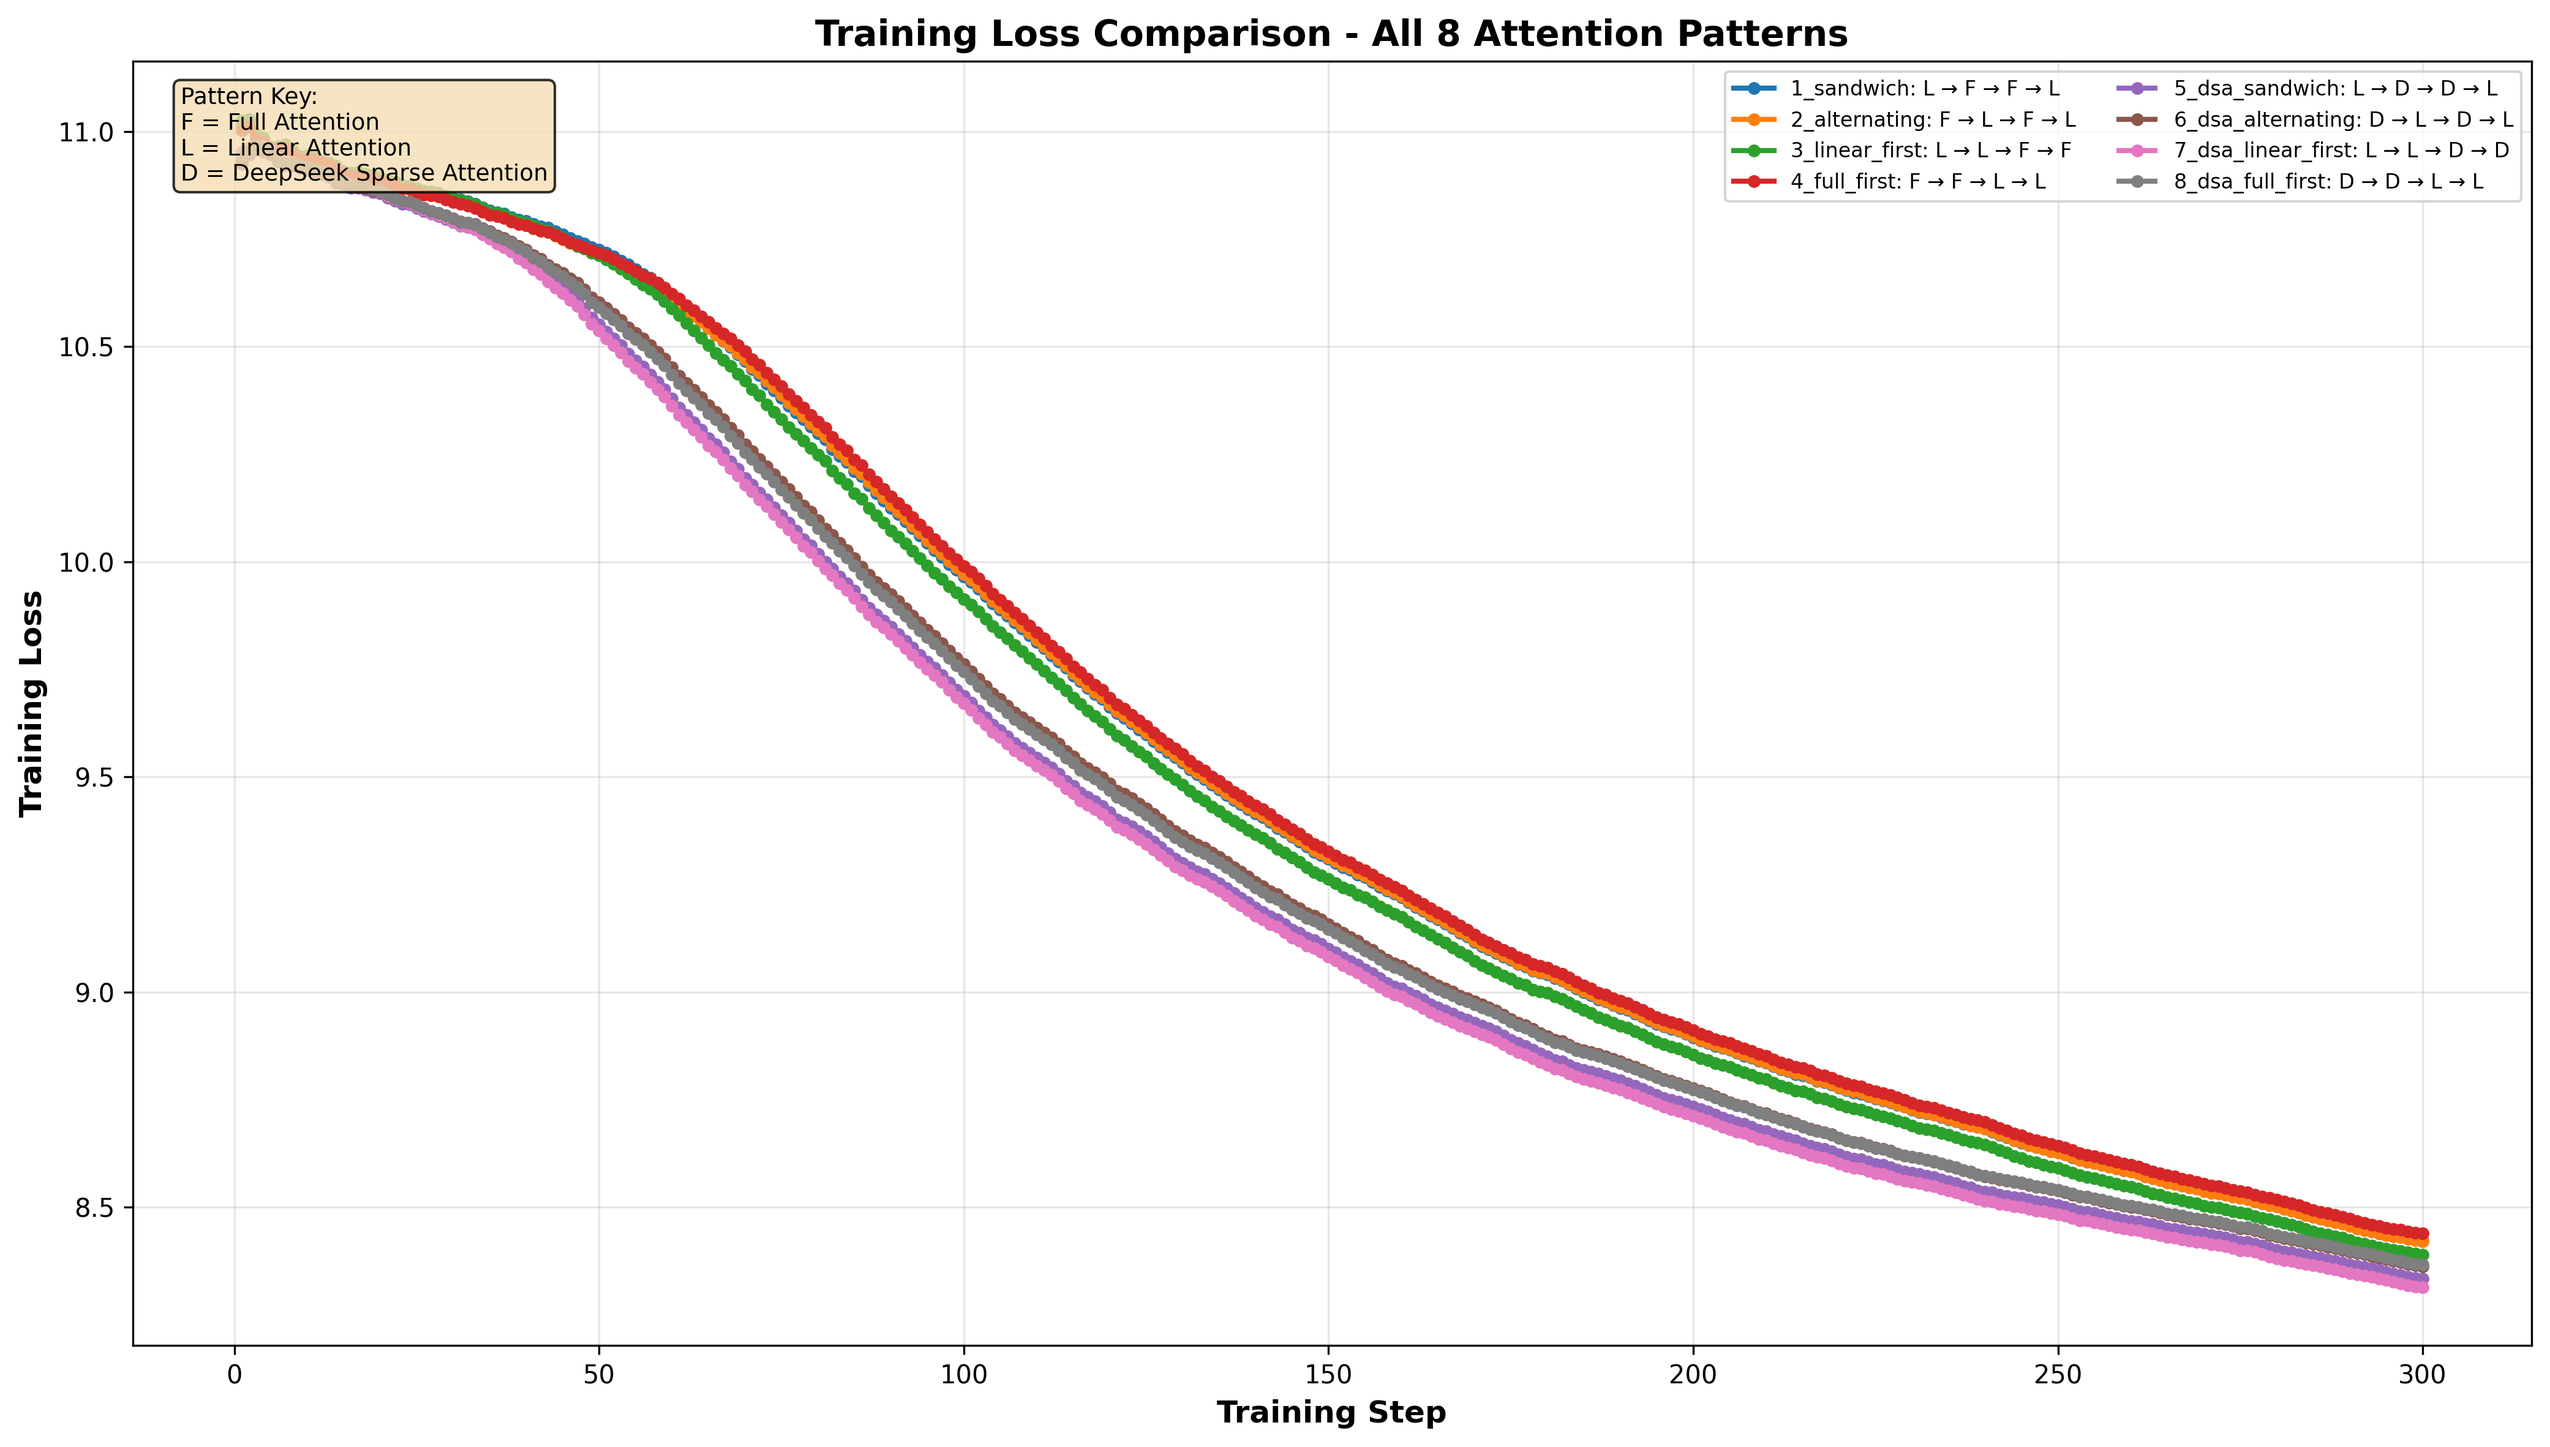
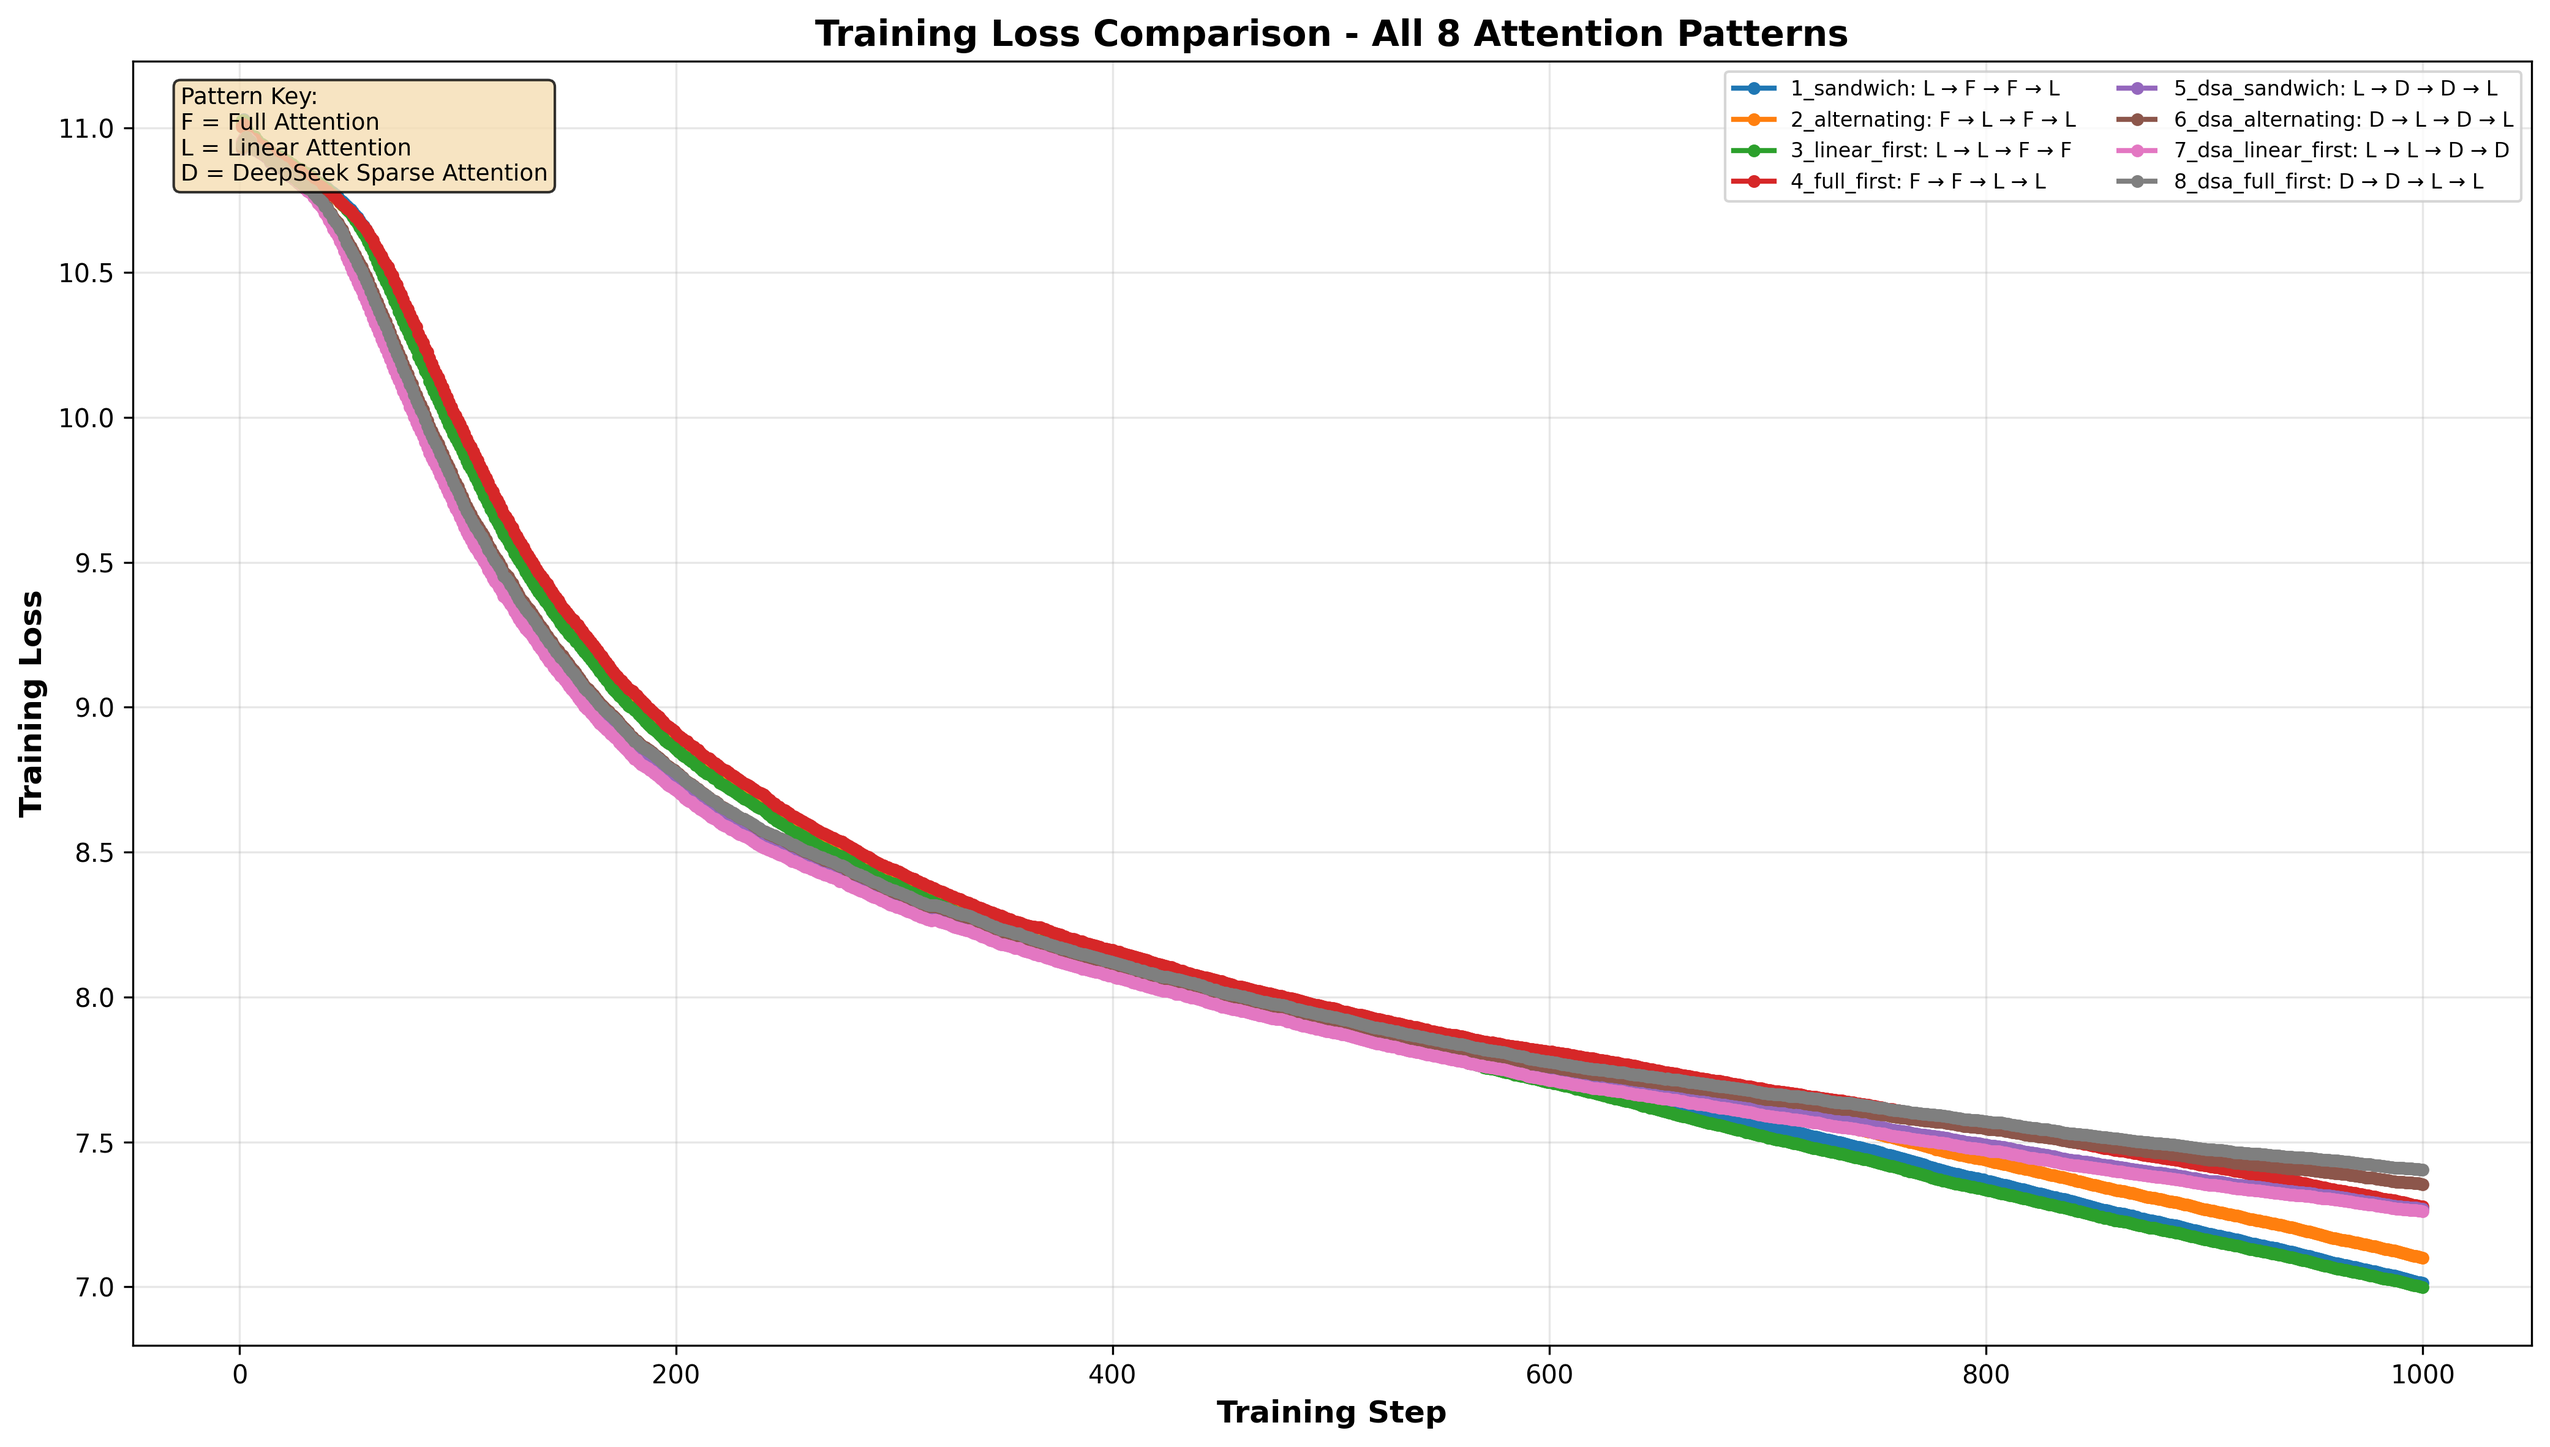
updated readme

diff --git a/experiments/exp1_dsa_gdn_hybrid/run_experiment.py b/experiments/exp1_dsa_gdn_hybrid/run_experiment.py
@@ -19,7 +19,7 @@ matplotlib.use('Agg')  # Use non-interactive backend
 root_dir = os.path.dirname(os.path.dirname(os.path.dirname(os.path.abspath(__file__))))
 sys.path.insert(0, root_dir)
 
-from experiments.exp6_qwen3_dsa_hybrid.models import EnhancedQwen3NextForCausalLM
+from experiments.exp1_dsa_gdn_hybrid.models import EnhancedQwen3NextForCausalLM
 from models.qwen3_next.configuration_qwen3_next import Qwen3NextConfig
 from models.qwen3_next.modular_qwen3_next import Qwen3NextForCausalLM
 from data.loader import load_and_cache_data
@@ -243,8 +243,8 @@ def test_pattern(pattern_name, layer_types, use_dsa=False):
     # Optimizer
     optimizer = torch.optim.AdamW(model.parameters(), lr=3e-4, betas=(0.9, 0.95), weight_decay=0.1)
     
-    # Train for 300 steps
-    max_steps = 300
+    # Train for 1000 steps
+    max_steps = 1000
     start_time = time.time()
     total_steps = 0
     
@@ -292,7 +292,7 @@ def main():
     print("\nConfiguration:")
     print("  • 4 layers, 128 hidden dim, 14M parameters")
     print("  • 4 experts, top-2 routing, MoE every 2 layers")
-    print("  • 300 training steps")
+    print("  • 1000 training steps")
     print()
     
     results = {}

diff --git a/experiments/exp1_dsa_gdn_hybrid/models.py b/experiments/exp1_dsa_gdn_hybrid/models.py
@@ -31,7 +31,7 @@ from models.qwen3_next.modular_qwen3_next import (
 from models.qwen3_next.configuration_qwen3_next import Qwen3NextConfig
 
 # Import DeepSeek Sparse Attention
-from experiments.exp1_attention_mechanisms.exp1_sparse_vs_classic_attention.sparse_attention import (
+from experiments.exp2_attention_mechanisms.exp1_sparse_vs_classic_attention.sparse_attention import (
     DeepSeekSparseAttention,
     LightningIndexer,
 )

diff --git a/experiments/exp1_dsa_gdn_hybrid/README.md b/experiments/exp1_dsa_gdn_hybrid/README.md
@@ -1,12 +1,24 @@
-# Experiment 6: Qwen3-Next Attention Variants
+# DeepSeek Sparse Attention (DSA) + Gated DeltaNet (GDN) Hybrid Attention Variants
 
 ## Research Questions
 
 1. Can replacing full attention with DeepSeek Sparse Attention (DSA) improve the efficiency and performance of a hybrid attention architecture that combines full attention and Gated DeltaNet (GDN)?
 
-- Yes.
+- Trains faster in the beginning, but full attention seems to surpass it with more training. More research needed.
 
 2. Which combination of attention mechanisms across layers produces the best efficiency-performance tradeoff: (1) Full Attention + GDN, (2) DSA + GDN, (3) DSA only, or (4) Full Attention only?
+
+- Currently L → F → F → L (Gated Deltanet → Full Attention → Full Attention → Gated Deltanet). More research needed.
+
+#### All 8 Patterns Comparison
+![Loss Comparison - All Patterns](results/loss_comparison.png)
+
+*Training loss curves for all 8 attention pattern variants. Solid lines represent Original patterns (Full + Linear Attention), dashed lines represent DSA patterns (DeepSeek Sparse + Linear Attention).*
+
+#### Original vs DSA Average
+![Loss Comparison - Category Averages](results/loss_comparison_average.png)
+
+*Average training loss curves comparing Original architectures vs DSA architectures.*
 
 ## Experiment Design
 
@@ -30,16 +42,95 @@ Compare 8 attention layer patterns across a 4-layer LLM architecture:
 
 ```bash
 pip install -r requirements.txt
-
-# Run comprehensive experiment (trains all 8 patterns, ~4 minutes)
-python experiments/exp6_qwen3_dsa_hybrid/run_experiment.py
+# Run comprehensive experiment (trains all 8 patterns for 1000 steps each)
+python experiments/exp1_dsa_gdn_hybrid/run_experiment.py
 ```
+
+## Results
+
+**Training Configuration:**
+- 4 layers, 128 hidden dimension, ~14M parameters
+- 4 experts, top-2 routing, MoE every 2 layers
+- 1000 training steps per pattern
+
+### Performance Summary
+
+| Rank | Pattern | Type | Val Loss | Val Acc | Val PPL | Time |
+|------|---------|------|----------|---------|---------|------|
+| 🏆 1 | Sandwich | Original | 5.4012 | 36.25% | 221.67 | 75.6s |
+| 🥈 2 | Linear First | Original | 5.4712 | 35.84% | 237.74 | 85.4s |
+| 🥉 3 | Alternating | Original | 5.5215 | 32.41% | 250.02 | 78.7s |
+| 4 | Full First | Original | 5.9077 | 27.22% | 367.86 | 84.6s |
+| 5 | DSA Sandwich | DSA | 6.3442 | 22.83% | 569.18 | 84.7s |
+| 6 | DSA Linear First | DSA | 6.3947 | 21.60% | 598.67 | 84.0s |
+| 7 | DSA Alternating | DSA | 6.5257 | 20.08% | 682.44 | 83.3s |
+| 8 | DSA Full First | DSA | 6.7721 | 16.65% | 873.12 | 83.3s |
+
+### Category Comparison
+
+| Category | Avg Val Loss | Avg Val Acc | Avg Val PPL | Avg Time |
+|----------|--------------|-------------|-------------|----------|
+| **Original** (Full + Linear Attention) | 5.5754 | 32.93% | 269.32 | 81.1s |
+| **DSA** (DeepSeek Sparse + Linear) | 6.5092 | 20.29% | 680.85 | 83.8s |
+| **Difference** | +0.9338 | -12.64% | +411.53 | +2.8s |
+
+### Training Loss Curves
+
+#### All 8 Patterns Comparison
+![Loss Comparison - All Patterns](results/loss_comparison.png)
+
+*Training loss curves for all 8 attention pattern variants. Solid lines represent Original patterns (Full + Linear Attention), dashed lines represent DSA patterns (DeepSeek Sparse + Linear Attention).*
+
+#### Original vs DSA Average
+![Loss Comparison - Category Averages](results/loss_comparison_average.png)
+
+*Average training loss curves comparing Original architectures vs DSA architectures.*
+
+## Key Findings
+
+### 1. Original architectures significantly outperform DSA variants
+- **~17% lower validation loss** on average (5.58 vs 6.51)
+- **~12.6% higher accuracy** (32.93% vs 20.29%)
+- **~60% lower perplexity** (269.32 vs 680.85)
+
+### 2. Best performing pattern: Sandwich (L → F → F → L)
+- Lowest validation loss: 5.4012
+- Highest accuracy: 36.25%
+- Best perplexity: 221.67
+- Fastest training time: 75.6s
+
+### 3. Linear attention placement matters
+- Sandwich pattern (linear at start/end) performs best
+- Linear First pattern (linear layers first) is second best
+- Full First pattern (all full attention first) performs worst among originals
+
+### 4. DSA patterns show consistent underperformance
+- All 4 DSA patterns rank in bottom 4 positions
+- DSA adds minimal training time overhead (~2.8s average, ~3.4% increase)
+- The sparse attention mechanism may require:
+  - Longer training periods
+  - Different hyperparameter tuning
+  - Different initialization strategies
+
+### 5. Answer to Research Questions
+
+**Q1: Can replacing full attention with DSA improve efficiency and performance?**
+
+**No.** In this configuration, DSA patterns consistently underperform Original patterns across all metrics. While DSA adds minimal computational overhead (~3.4%), it results in significantly worse model quality.
+
+**Q2: Which combination produces the best tradeoff?**
+
+**Sandwich pattern (L → F → F → L)** achieves the best overall performance with:
+- Best validation metrics
+- Fastest training time (75.6s vs ~84s average)
+- Simplest architecture (symmetric layer arrangement)
 
 ## Files
 
 - `run_experiment.py` - Main experiment script (trains and compares all 8 patterns)
 - `models.py` - Enhanced model supporting all 3 attention types (F, L, D)
 - `config.py` - Configuration options (SMALL/MEDIUM/LARGE)
-- `visualize_results.py` - Results visualization
-- `results/` - Experiment outputs (JSON results + PNG plots)
-
+- `results/` - Experiment outputs:
+  - `comprehensive_comparison.json` - Detailed results for all patterns
+  - `loss_comparison.png` - All 8 patterns training curves
+  - `loss_comparison_average.png` - Original vs DSA average curves

diff --git a/README.md b/README.md
@@ -1,0 +1,72 @@
+# Blueberry LLM 2
+
+Open superintelligence lab - we do open research. Learn real AI research done in real companies.
+
+## Latest Experiment Results
+
+### Experiment 1: DSA + GDN Hybrid Attention Variants
+
+**Training Configuration:**
+- 4 layers, 128 hidden dimension, ~14M parameters
+- 4 experts, top-2 routing, MoE every 2 layers
+- 1000 training steps per pattern
+- 8 different attention pattern combinations tested
+
+**Results Summary:**
+
+| Rank | Pattern | Type | Val Loss | Val Acc | Val PPL | Time |
+|------|---------|------|----------|---------|---------|------|
+| 🏆 1 | Sandwich | Original | 5.4012 | 36.25% | 221.67 | 75.6s |
+| 🥈 2 | Linear First | Original | 5.4712 | 35.84% | 237.74 | 85.4s |
+| 🥉 3 | Alternating | Original | 5.5215 | 32.41% | 250.02 | 78.7s |
+| 4 | Full First | Original | 5.9077 | 27.22% | 367.86 | 84.6s |
+| 5 | DSA Sandwich | DSA | 6.3442 | 22.83% | 569.18 | 84.7s |
+| 6 | DSA Linear First | DSA | 6.3947 | 21.60% | 598.67 | 84.0s |
+| 7 | DSA Alternating | DSA | 6.5257 | 20.08% | 682.44 | 83.3s |
+| 8 | DSA Full First | DSA | 6.7721 | 16.65% | 873.12 | 83.3s |
+
+**Category Comparison:**
+
+| Category | Avg Val Loss | Avg Val Acc | Avg Val PPL | Avg Time |
+|----------|--------------|-------------|-------------|----------|
+| **Original** (Full + Linear Attention) | 5.5754 | 32.93% | 269.32 | 81.1s |
+| **DSA** (DeepSeek Sparse + Linear) | 6.5092 | 20.29% | 680.85 | 83.8s |
+| **Difference** | +0.9338 | -12.64% | +411.53 | +2.8s |
+
+### Training Loss Curves
+
+#### All 8 Patterns Comparison
+![Loss Comparison - All Patterns](experiments/exp1_dsa_gdn_hybrid/results/loss_comparison.png)
+
+#### Original vs DSA Average
+![Loss Comparison - Category Averages](experiments/exp1_dsa_gdn_hybrid/results/loss_comparison_average.png)
+
+### Key Findings
+
+1. **Original architectures (Full + Linear Attention) outperform DSA variants** by a significant margin
+   - ~17% lower validation loss on average
+   - ~12.6% higher accuracy
+   - ~60% lower perplexity
+
+2. **Best performing pattern: Sandwich (L → F → F → L)**
+   - Lowest validation loss: 5.4012
+   - Highest accuracy: 36.25%
+   - Best perplexity: 221.67
+
+3. **Linear attention placement matters**
+   - Linear attention at the beginning and end (sandwich pattern) works best
+   - Having all full attention first (Full First) performs worst among original patterns
+
+4. **DSA patterns show consistent underperformance**
+   - All 4 DSA patterns perform worse than all 4 original patterns
+   - DSA adds minimal training time overhead (~2.8s average)
+   - The sparse attention mechanism may require longer training or different hyperparameters
+
+### Pattern Notation
+- **F** = Full Attention
+- **L** = Linear Attention (Gated DeltaNet)
+- **D** = DeepSeek Sparse Attention
+
+### Experiment Details
+
+See [experiments/exp1_dsa_gdn_hybrid/README.md](experiments/exp1_dsa_gdn_hybrid/README.md) for more details.
